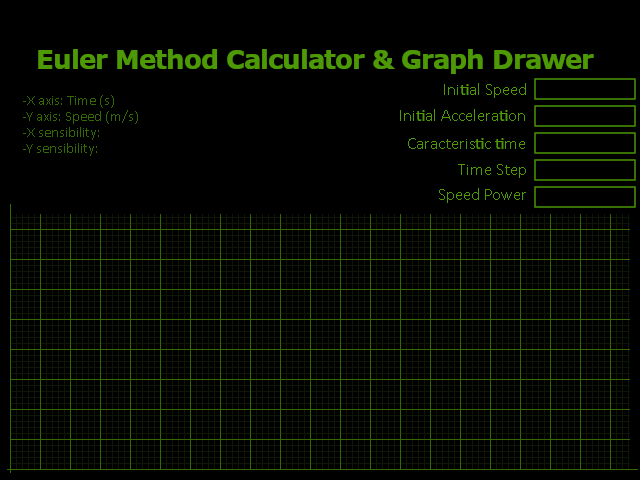
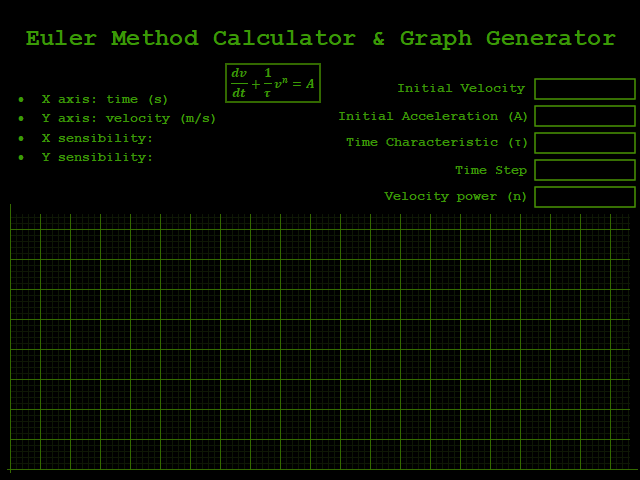
Update GUI

diff --git a/src/main.cpp b/src/main.cpp
@@ -274,7 +274,7 @@ void do_render(SDL_Renderer* renderer, Input data[5])
 				x = SDL_CreateTextureFromSurface(renderer, surface);
 				SDL_QueryTexture(x, nullptr, nullptr, &x_text_width, &x_text_height);
 
-				SDL_Rect x_rect = { 108, 128, x_text_width, x_text_height };
+				SDL_Rect x_rect = { 158, 132, x_text_width, x_text_height };
 				SDL_RenderCopy(renderer, x, nullptr, &x_rect);
 
 				SDL_DestroyTexture(x);
@@ -286,7 +286,7 @@ void do_render(SDL_Renderer* renderer, Input data[5])
 				y = SDL_CreateTextureFromSurface(renderer, surface);
 				SDL_QueryTexture(y, nullptr, nullptr, &y_text_width, &y_text_height);
 
-				SDL_Rect y_rect = { 108, 144, y_text_width, y_text_height };
+				SDL_Rect y_rect = { 158, 149, y_text_width, y_text_height };
 				SDL_RenderCopy(renderer, y, nullptr, &y_rect);
 
 				SDL_DestroyTexture(y);
